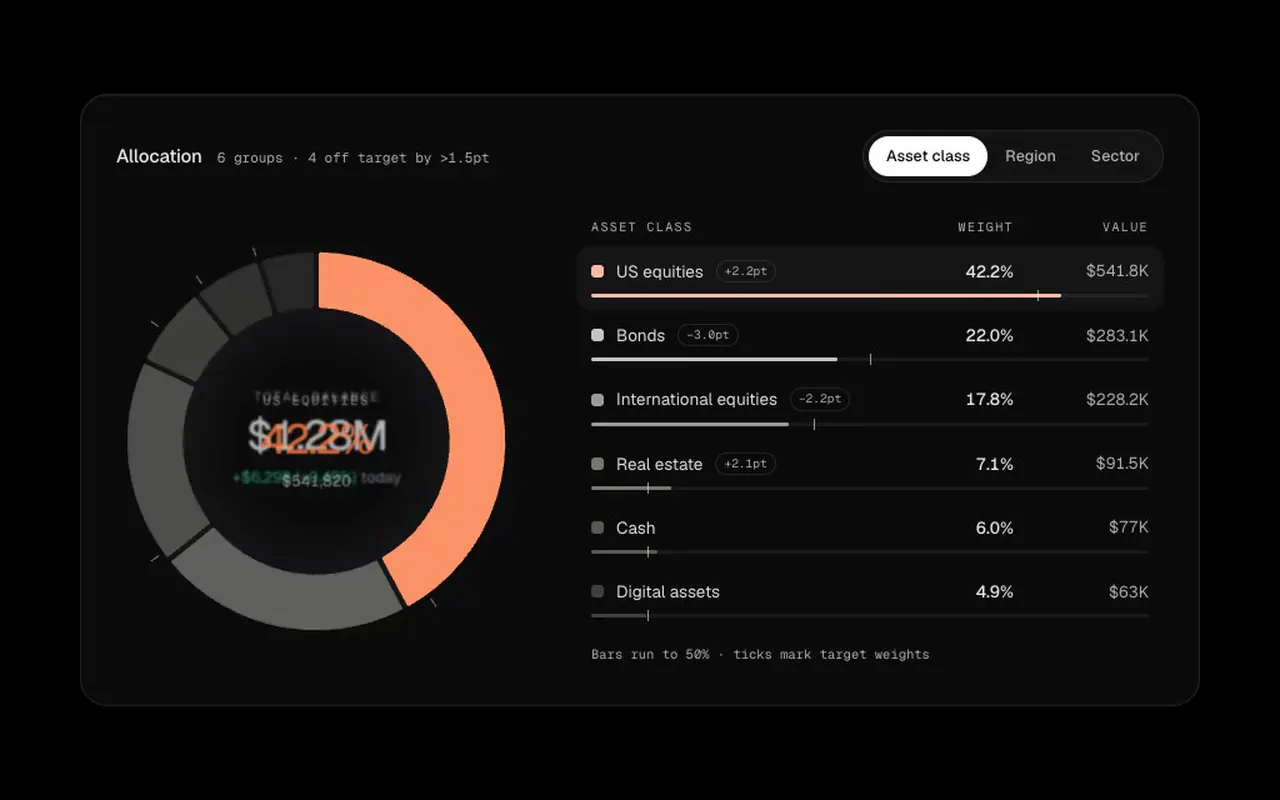
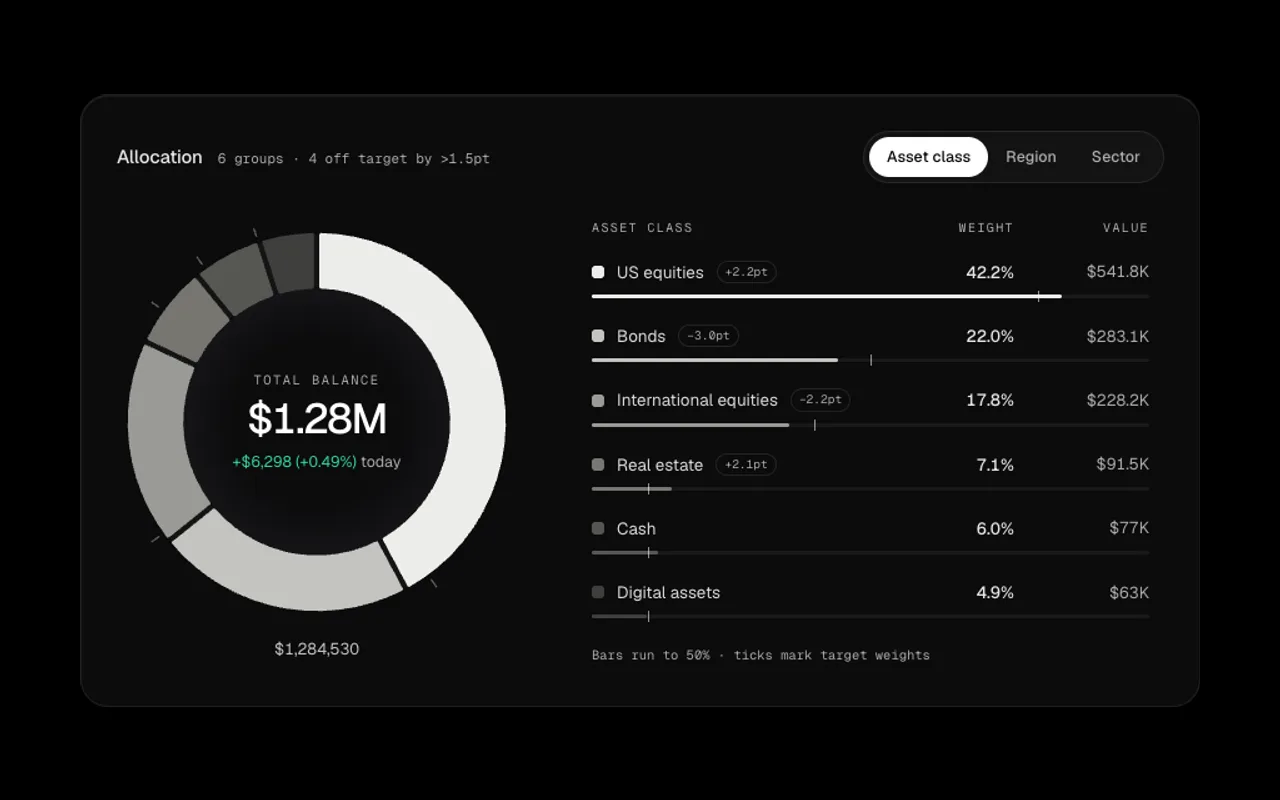
Verify exact financial reviews and refresh report and allocation posters

diff --git a/docs/review/STATUS.md b/docs/review/STATUS.md
@@ -1,6 +1,6 @@
 # Review status
 
-200 components are rebuilt (or, for a few, polished), verified and committed. For each: whether its demo video
+201 components are rebuilt (or, for a few, polished), verified and committed. For each: whether its demo video
 needs re-recording, whether its poster is current, and the state of its browser regression probe.
 
 - **Video**: `new` means `public/previews/<slug>.mp4` still shows the old version. Re-record serially on a quiet machine:
@@ -21,9 +21,9 @@ Pagination phone capture has 20 outline-edge pixels changed and is visually appr
 root/isolated types and all **1,066 unit tests** pass. The Worker dry run passes unchanged limits at
 **2,655,633 router bytes, 57,504,702 runtime bytes and 4,778,914 compressed source-map bytes**. Both source
 snapshots and standing change status remain fixed through the release checks. No deployment was performed.
-Commerce and Fashion Workspaces have completed their block reviews. Their current checks are recorded below;
-the next complete batch release checkpoint remains pending. The remaining inventory is **9 blocks, 59 older
-probes and 118 films**.
+Commerce, Fashion and Financial Report have completed their block reviews. Their current checks are recorded
+below; the next complete batch release checkpoint remains pending. The remaining inventory is **8 blocks,
+59 older probes and 120 films**. Allocation Chart needs a new film after its full-value readout changed.
 
 ## Previous workspace/input checkpoint (19 October 2026)
 
@@ -379,3 +379,4 @@ See [the handoff checkpoint](HANDOFF_TASKS.md#8-final-release-checks) for revisi
 | `navigation-breadcrumb-fold` | current | current | Folding Breadcrumb retains its compact route rail, real ancestor links and plain current-page label. Stable href/occurrence keys preserve focus through ancestor reordering. Expanding and collapsing transfer focus to the surviving control; removing focused controls retains focus in the landmark without reclaiming it after an outside button or primary blank-space click. Wrapped ancestor labels retain inner padding. Its owned 320ms entrance settles immediately on live reduced-motion changes. Three original-source failures are retained. Its 39-mount source review, twenty accessibility audits, six widths, reviewed state/entrance captures, Next and existing input regressions, theme control, official audit and exact folded/expanded/refolded replay pass. Native link navigation, keyboard disclosure, empty and short paths, long copy, independent landmarks and every phone preview state at 320/390px are covered. The API stays unchanged. Strict registry, root/isolated types and all 1,066 tests pass. Its reviewed 3.8s film and paired poster retain the folded, expanded and refolded path in the measured 832×600 frame: source gap 11ms, delivery 13.55ms and moving-frame p95 25.60ms, with no stalls and unchanged guards. The next 65-suite / 94-replay batch remains pending. |
 | `block-commerce-workspace` | new | current | Commerce Workspace now uses compact view-specific headings, a target/order overview that expands across wide containers and one store identity throughout Returns. Modified order links preserve browser intent; empty copy and disabled selectors name their period/order context. Separate period/order drafts, retry, pending requests across period changes, unavailable handlers, arriving data and phone action reachability pass. Its 33-mount source review, 32 accessibility audits, six widths and all 46 reviewed state/entrance captures pass. The registered workflow retains the contrast and narrow-card dependency regressions. Normal-motion headings must finish visibly in the actual Next preview. All eight block metadata replays pass; Commerce verifies item/reason changes, editing, review and the final read-only request receipt. Controls, official audit, strict registry, root/all-eleven-block types and all 1,066 unit tests pass. The public API and Pro dependency boundary stay unchanged. Its reviewed settled Next poster is current. The film fails unchanged timing guards (source gap 37ms, delivery 106.73ms and moving-frame p95 25.93ms; one 109.45ms moving-frame gap); the old film is retained and rejected raw evidence stays local. The next complete batch release checkpoint remains pending. |
 | `block-fashion-workspace` | current | current | Fashion Workspace now shares its brand across all three tools, uses compact view-specific headings and names empty collections explicitly. Offline weekly histories reconcile to the existing sold-unit ledgers. Retained planning drafts, failed-save retry after a collection change, original typed callback contexts, missing writers, arriving data and keyboard actions at 320/390px pass. Narrow plan actions wrap without splitting words, and readiness text keeps room beside its ring. Compact metrics stack so complete currency amounts remain readable. Its 29-mount source review, forty accessibility audits, six widths and 54 reviewed state/entrance captures pass with frozen sources. Calendar write ownership and merchandising stock-cover contrast regressions remain registered. The exact metadata replay adds a fifteenth style and reaches the saved 530-unit, £17,760.00 plan receipt. Next controls and official audit, strict registry, root/all-eleven-block types and all 1,066 tests pass. Public callback contracts and Pro boundaries remain unchanged. Its reviewed 5.0s film and paired Next poster retain the complete 820px workspace in measured 1400×940 framing: source gap 57ms, delivery 49.62ms and moving-frame p95 28.37ms, with no stalls and unchanged guards. The next complete batch release checkpoint remains pending. |
+| `block-financial-report` | new | current | Financial Report now uses a compact period-specific workspace, exact headline and cost amounts, a real cost-detail anchor and persistent export feedback. Full currency values preserve the final minor unit at the safe-integer boundary, including negative pennies, across screen totals, table cells, allocation labels, CSV and print. Raw minor units retain numeric sorting and allocation weights; abbreviated chart summaries remain explicit. Keyboard period selection, empty and arriving reports, no costs, independent instances, native CSV/print, failed export retry and retired report/currency/brand/unmount replies pass its 43-mount source review, forty accessibility audits, six widths and 54 reviewed state/entrance captures. Long-amount phone checks and stable chart legend/focus regressions pass. A single allocation view has no redundant grouping chooser; the exact total/focused value uses one stable readout below the ring. The exact September replay reaches the visible export receipt with the £8,700.00 software line intact. Next workflow, controls, official audit and measured full-frame captures pass with strict registry, root/all-eleven-block types and all 1,066 tests. Public callbacks and Pro boundaries remain unchanged. Its reviewed paired Next poster is current. The film fails unchanged timing guards (source gap 22ms, delivery 649.70ms and moving-frame p95 24.42ms); the previous movie is retained and raw rejection evidence stays local. The next complete batch release checkpoint remains pending. |

diff --git a/docs/review/HANDOFF_TASKS.md b/docs/review/HANDOFF_TASKS.md
@@ -421,7 +421,9 @@ from changing subsequent block tests. Original failures and diagnostics remain l
 
 - Financial review dependency follow-up: compact numeric table cards now retain visible column labels and stack extra amounts at full width. Focused allocation values appear below the ring so long exact amounts stay readable, and singular allocation counts use "1 group". Both original failures are retained. Registered table/allocation workflows, six focused state accessibility audits, thirty responsive source mounts, four default accessibility audits, all reviewed captures, strict registry, root/all-eleven-block types and all 1,066 unit tests pass. Public callback and formatting contracts are unchanged. The Financial block review remains in progress.
 
-## 1. Re-record demo videos (118 components)
+- Task 7 (19 October): Financial Report now uses a compact period-specific workspace, exact headline and cost amounts, a real cost-detail anchor and persistent export feedback. Full currency values preserve the final minor unit at the safe-integer boundary, including negative pennies, across screen totals, table cells, allocation labels, CSV and print. Raw minor units retain numeric sorting and allocation weights; abbreviated chart summaries remain explicit. Keyboard period selection, empty and arriving reports, no costs, independent instances, native CSV/print, failed export retry and retired report/currency/brand/unmount replies pass its 43-mount source review, forty accessibility audits, six widths and 54 reviewed state/entrance captures. Long-amount phone checks and stable chart legend/focus regressions pass. A single allocation view has no redundant grouping chooser; the exact total/focused value uses one stable readout below the ring. The exact September replay reaches the visible export receipt with the £8,700.00 software line intact. Next workflow, controls, official audit and measured full-frame captures pass with strict registry, root/all-eleven-block types and all 1,066 tests. Public callbacks and Pro boundaries remain unchanged. Its reviewed paired Next poster is current. The film fails unchanged timing guards (source gap 22ms, delivery 649.70ms and moving-frame p95 24.42ms); the previous movie is retained and raw rejection evidence stays local. Eight blocks, 59 older probes and 120 films remain. Allocation Chart has a reviewed refreshed Next poster and joins the film queue because its full-value readout changed. The next complete batch release checkpoint remains pending.
+
+## 1. Re-record demo videos (120 components)
 
 Every rebuilt component's poster is current but its catalogue film (`public/previews/<slug>.mp4`) still shows the old
 version. Record them one at a time on an otherwise idle machine; the recorder rejects frame stalls under load.
@@ -440,6 +442,8 @@ slug or per small group). Notes:
 
 Slugs:
 
+`chart-allocation`
+`block-financial-report`
 `block-commerce-workspace`
 `date-booking-slots`
 `onboarding-setup-checklist`
@@ -574,9 +578,9 @@ All nine parked rebuilds are shipped in both repos. Their original `_wip/<slug>`
 | finance-budget-variance | Completed 17 October: Next probe, dark/light accessibility, responsive and entrance/state captures, live demo and refreshed poster pass. |
 | finance-cashflow-dashboard | Completed 17 October: weekly balance and in/out bars, movable payments, independent pending saves, invalid-data guards, selected-week list geometry, Next probe/demo, both-theme accessibility, responsive/state/entrance captures and refreshed poster pass. |
 
-## 7. Continue the review (9 blocks)
+## 7. Continue the review (8 blocks)
 
-Same process as the 200 already done: hold each to the first ~100 components' standard. Briefs:
+Same process as the 201 already done: hold each to the first ~100 components' standard. Briefs:
 `docs/review/REVIEW_BRIEF.md`, `docs/review/SUITE_BRIEF.md` for industry components, suite languages in
 `docs/review/suites/`. Work newest first, about four components per batch, and verify each (build, tsc, tests,
 check-component, your own captures of states and mid-entrance frames, a refreshed poster, a rewritten pro-50 probe for
@@ -620,12 +624,11 @@ reference; the reviewed dark capture differs only in eight pixels around its Pai
 registry, root/eleven-block types and all 1,066 unit tests pass. The private fix is `87da4af`. The full
 Commerce completed its full review with this dependency; ten other blocks remain open.
 
-- **Commerce and Fashion** are reviewed. Keep both workspaces compatible with their rebuilt parts.
+- **Commerce, Fashion and Financial Report** are reviewed. Keep these blocks compatible with their rebuilt parts.
 - **Smaller components** (#151–179) are reviewed.
-- **Blocks**, after their parts: nine of the eleven published `block-*` components remain. Commerce and Fashion Workspaces are reviewed. Many parts changed their look and some their props;
+- **Blocks**, after their parts: eight of the eleven published `block-*` components remain. Commerce, Fashion and Financial Report are reviewed. Many parts changed their look and some their props;
   re-check each block composes well with the rebuilt parts and still reads as one product. The earlier count of 12 was stale: both source repositories and all published `kind: "block"` metadata contain these eleven, with every declared dependency available.
 
-`block-financial-report`,
 `block-legal-workspace`, `block-meetings-workspace`, `block-music-workspace`,
 `block-people-workspace`, `block-saas-dashboard`, `block-saas-landing`,
 `block-team-workspace`, `block-workspace-settings`.
